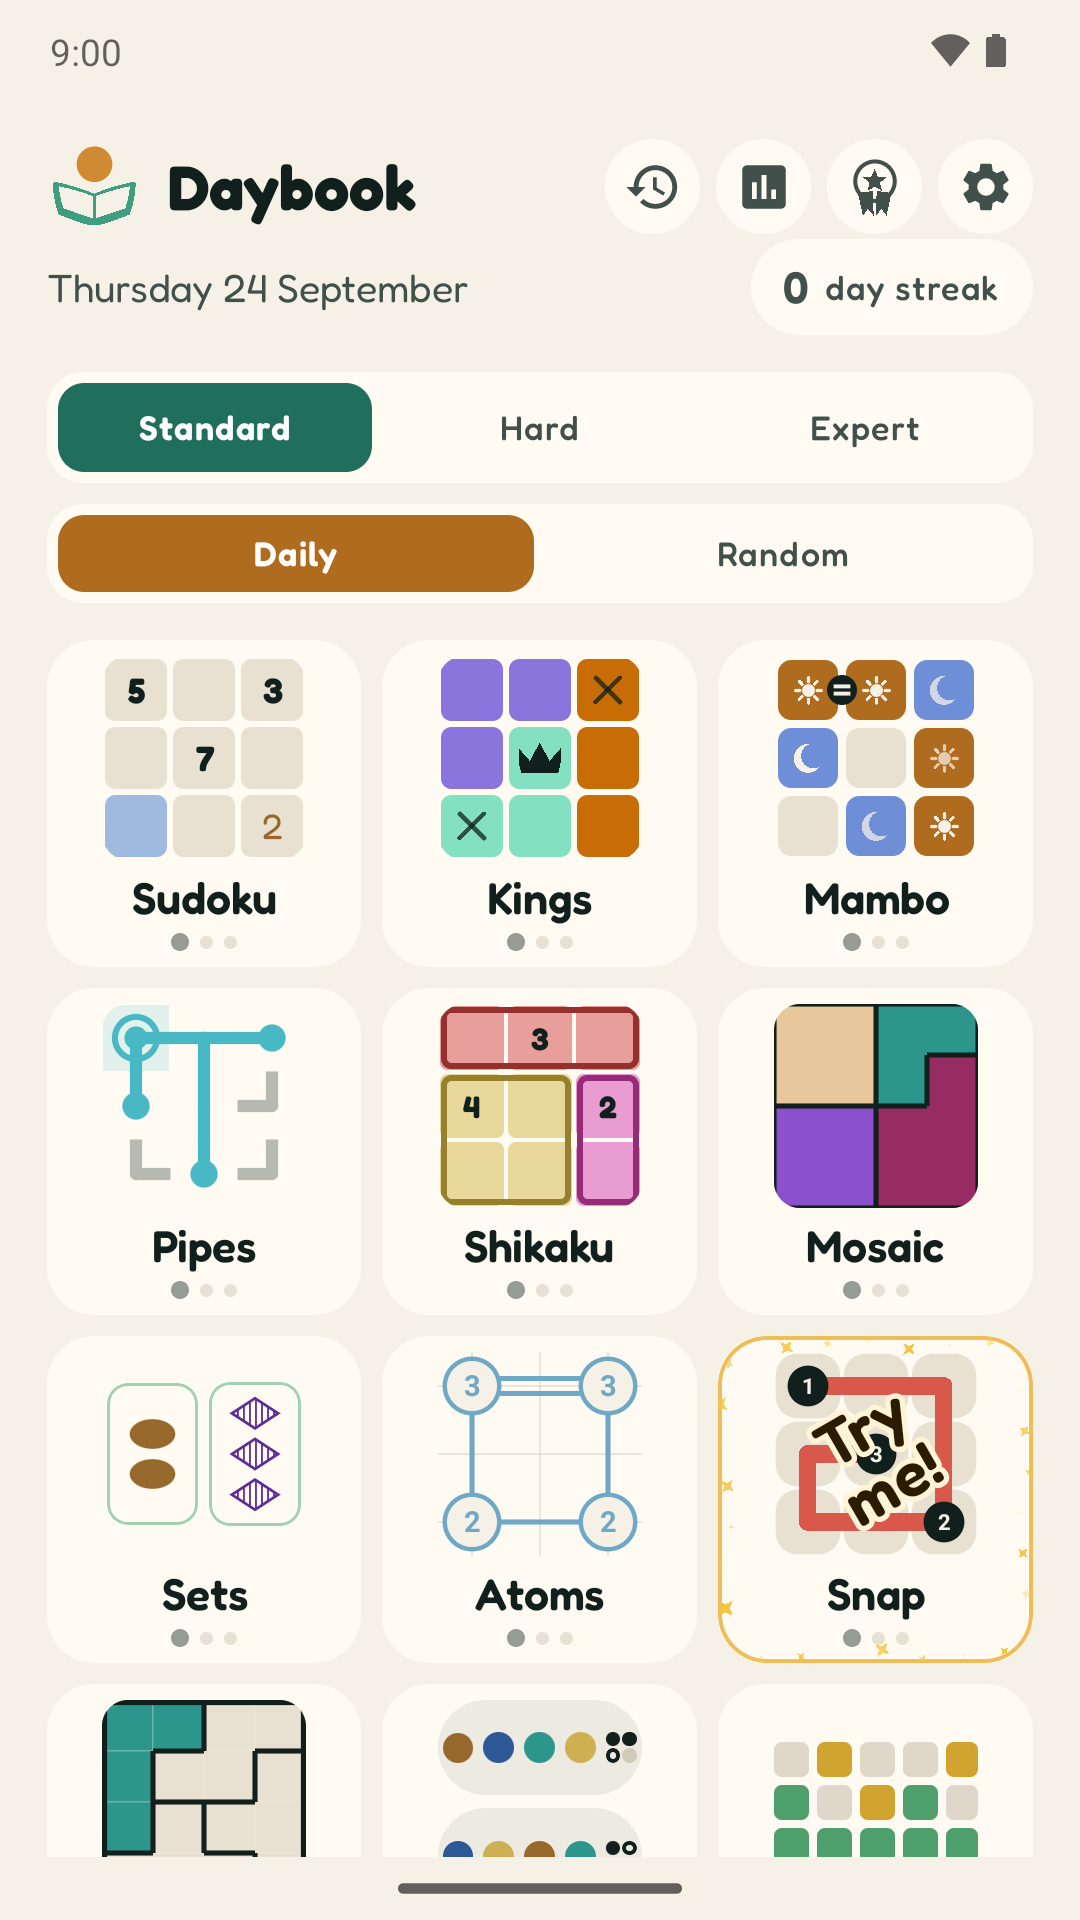
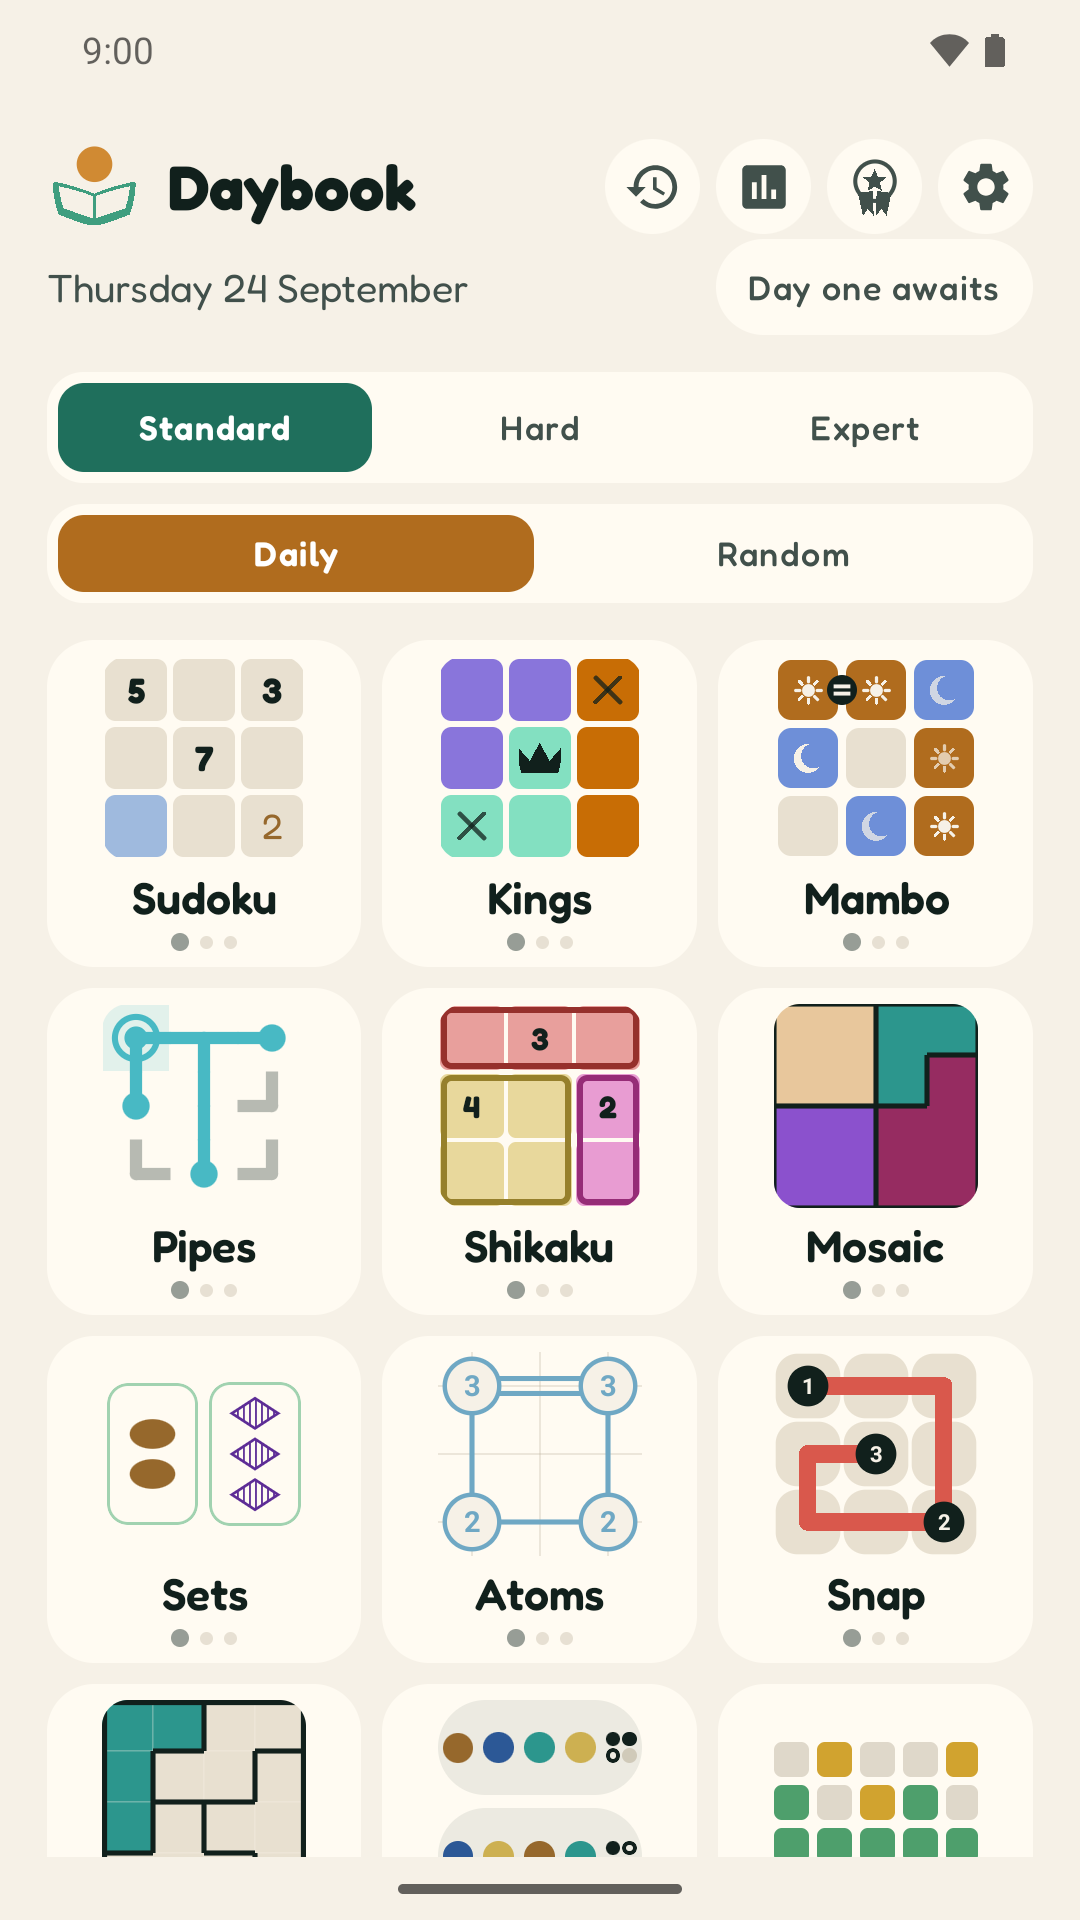
Badge holds its height; docs and home screenshots

diff --git a/app/src/main/java/com/joebywan/daybook/ui/home/HomeScreen.kt b/app/src/main/java/com/joebywan/daybook/ui/home/HomeScreen.kt
@@ -41,11 +41,13 @@ import androidx.compose.runtime.saveable.rememberSaveable
 import androidx.compose.runtime.setValue
 import androidx.compose.ui.Alignment
 import androidx.compose.ui.Modifier
+import androidx.compose.ui.draw.alpha
 import androidx.compose.ui.draw.clip
 import androidx.compose.ui.layout.onSizeChanged
 import androidx.compose.ui.platform.LocalDensity
 import androidx.compose.ui.graphics.Color
 import androidx.compose.ui.graphics.vector.ImageVector
+import androidx.compose.ui.semantics.clearAndSetSemantics
 import androidx.compose.ui.text.font.FontWeight
 import androidx.compose.ui.text.style.TextAlign
 import androidx.compose.ui.text.style.TextOverflow
@@ -302,11 +304,13 @@ private fun StreakBadge(streak: Streak) {
             .padding(horizontal = 12.dp, vertical = 8.dp),
         verticalAlignment = Alignment.CenterVertically,
     ) {
-        // Never a bare 0 (docs/REWARDS.md). Set at the number's line height, so the badge, and the header, keep their height.
+        // Never a bare 0 (docs/REWARDS.md). An unseen, zero-width number holds the badge, and so the header, at the
+        // height it has with one, so the first solve moves nothing.
         if (!streak.alive) {
+            Text("0", style = MaterialTheme.typography.titleMedium, modifier = Modifier.width(0.dp).alpha(0f).clearAndSetSemantics { })
             Text(
                 if (streak.lapsed) "Welcome back" else "Day one awaits",
-                style = MaterialTheme.typography.labelLarge.copy(lineHeight = MaterialTheme.typography.titleMedium.lineHeight),
+                style = MaterialTheme.typography.labelLarge,
                 color = scheme.onSurfaceVariant,
             )
         } else {

diff --git a/CLAUDE.md b/CLAUDE.md
@@ -475,6 +475,12 @@ double-tap must emit exactly one combined state.
 **The play log is part of the saved game.** `SavedGame.log` (`ui/play/ShareCard.kt`, `PlayLog`) is one character per move, undo,
 restart and counted hint, and the share graphic is drawn from it. Append to it exactly where the hint count goes up and where
 `push`/`undo`/`restart` change the board; keep it out of `PuzzleState`; it defaults to "" so older saves load (`ShareCardTest`).
+Restart is undoable (except in Pointers, which has no Undo): it pushes the cleared board, and `SavedGame.restarts` marks where, so
+an Undo that crosses one logs `u` and `PlayLog.played` hands the restarted moves back.
+
+**Back goes where the screen was opened from** (`backFrom` in `ui/DaybookApp.kt`): an archive game returns to its archive at that
+day, for system back, the web's back, the BackButton and the finish frame's Done alike. Route strings only gain fields at the end,
+read with `getOrNull`, so a route saved by an older build still decodes (`RouteTest`).
 
 **Feedback must not move the board.** Mambo's caption shifted it ~45dp when an error appeared,
 which causes mistaps. Reserve the space (`minLines == maxLines` works well), or float it over the content as the hint
@@ -516,7 +522,7 @@ checked in). Then check on the emulator; several bugs only appeared there. For t
 checked-in harness: `tools/render/render.py` (see "Rendering harness" under Web build).
 
 **README screenshots go stale silently.** `docs/screenshots/*.png` are emulator captures at half
-scale (540x1200), taken on a *clean install* with the date pinned so the home screen shows a 0-day streak and unplayed
+scale (540x1200), taken on a *clean install* with the date pinned so the home screen shows a fresh streak badge and unplayed
 boards rather than whatever the session happened to leave behind. Nothing checks them, so a change
 to a board's look or to the home grid means recapturing them in the same pass — the home shot in
 particular names the puzzle count in its alt text.

diff --git a/docs/REWARDS.md b/docs/REWARDS.md
@@ -31,7 +31,9 @@ under "Rewards".
 seven days, never reaching back before the run's first day: alive while at most 2 of those days were missed
 (which is 5 of 7 for an established run, and "at most 2 missed since the first play" for a new one). The third
 miss ends the run and the next play starts a fresh one. `current` counts days played. Home shows "Welcome back"
-in place of the badge when lapsed; best streak is on the stats screen (the home header has no room for it).
+in place of the badge when lapsed, and "Day one awaits" before the first daily solve, so never a bare 0 (the stats
+screen's Streak tile shows "-" for both); best streak is on the stats screen (the home header has no room for it).
+The rule is told once, under the stats calendar: "Play on 5 of any 7 days to keep your streak going."
 
 ## Finished-frame praise (`ui/play/FinishPraise.kt`)
 

diff --git a/docs/TODO.md b/docs/TODO.md
@@ -41,7 +41,7 @@ from a measurement or review, so you can check it is still true.
   hint steps are the clue fallback; a "two slots, two words" step (slots that share their only candidates) would turn some into
   reasoning. Expert grids reach 8x8 and get ~20dp squares at 375x537. *M.*
 
-- [ ] **Share card: two readings to confirm.** Restart counts as undoing every move so far, and Target's "steps" is the
+- [ ] **Share card: two readings to confirm.** Restart counts as undoing every move so far (an Undo of the restart hands them back), and Target's "steps" is the
   operations still on the board at the finish (not only those that build the target); both are simple readings the owner may
   want changed (`ui/play/ShareCard.kt`).
 
